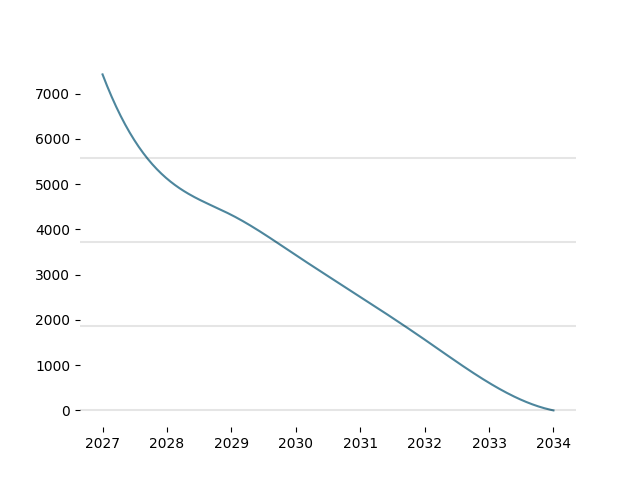
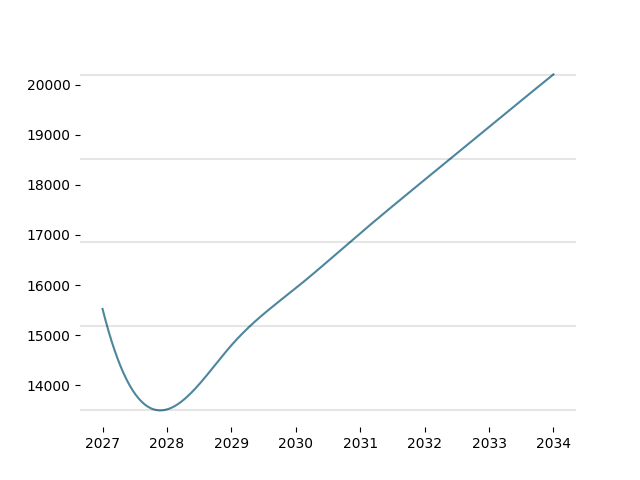
fixed

diff --git a/Car_Estimator/scripts/dashboard.js b/Car_Estimator/scripts/dashboard.js
@@ -48,7 +48,7 @@ window.onload = function() {
             Price = response["Price"];
             Photo = response["Photos"];
             Sells = response["Sell"]
-            console.log(Photo);
+            console.log(Price);
         }
     }
 

diff --git a/Car_Estimator/backend/analyze.py b/Car_Estimator/backend/analyze.py
@@ -9,7 +9,6 @@ import numpy as np
 from scipy.interpolate import make_interp_spline, BSpline
 import matplotlib.pyplot as plt
 
-
 app = Flask(__name__)
 CORS(app)
 plt.switch_backend('agg')
@@ -19,40 +18,42 @@ cars_dummies = pd.read_csv("car_dummies.csv")
 pics = pd.read_csv("pictures.csv")
 sells = pd.read_csv("sells.csv")
 
-def Graph(car_model: str, Year: int, HP: int, Body: str, Yearsell: int, Odometer: int, Color: str):
-  X=[]
-  Y=[]
-  period = 8
-  Make, Model = car_model.split(" | ")
-  Yearsell -= 4
-  for year in range(period):
-    Yearsell += 1
-    y_pred = get_car_info(car_model, Year, HP, Body, Yearsell, Odometer, Color)[0]
-    if y_pred > 0:
-      X.append(y_pred)
-    else:
-      X.append(0)
-    Y.append(Yearsell)
-    if year:
-      X[year] = X[year] * (1 - (18700 * year) ** (-0.17))
 
-  xnew = np.linspace(min(Y), max(Y), 300)
-  spl = make_interp_spline(Y, X, k=3)  # type: BSpline
-  power_smooth = spl(xnew)
-  plt.clf()
-  plt.box(False)
-  plt.plot(xnew, power_smooth, color="#4D869D")
-  ymin, ymax = plt.gca().get_ylim()
-  print(ymin, ymax)
-  for i in range(int(min(power_smooth)), int(max(power_smooth)), (int(max(power_smooth)) - int(min(power_smooth))) // 4):
-    plt.axhline(y=i, alpha=0.1, color="black")
-  plt.savefig('graph.png')
+def graph_build(car_model: str, Year: int, HP: int, Body: str, Yearsell: int, Odometer: int, Color: str):
+    X = []
+    Y = []
+    period = 8
+    Yearsell -= 4
+    for year in range(period):
+        Yearsell += 1
+        y_pred = get_car_info(car_model, Year, HP, Body, Yearsell, Odometer, Color)[0]
+        if y_pred > 0:
+            X.append(y_pred)
+        else:
+            X.append(0)
+        Y.append(Yearsell)
+        if year:
+            X[year] = X[year] * (1 - (18700 * year) ** (-0.17))
+
+    xnew = np.linspace(min(Y), max(Y), 300)
+    spl = make_interp_spline(Y, X, k=3)  # type: BSpline
+    power_smooth = spl(xnew)
+    plt.clf()
+    plt.box(False)
+    plt.plot(xnew, power_smooth, color="#4D869D")
+    ymin, ymax = plt.gca().get_ylim()
+    print(ymin, ymax)
+    for i in range(int(min(power_smooth)), int(max(power_smooth)),
+                   (int(max(power_smooth)) - int(min(power_smooth))) // 4):
+        plt.axhline(y=i, alpha=0.1, color="black")
+    plt.savefig('graph.png')
+
 
 def get_car_info(car_model: str, Year: int, HP: int, Body: str, Yearsell: int, Odometer: int, Color: str):
     Make, Model = car_model.split(" | ")
     dummy = {"Year": Year, "HP": HP, "Odometer": Odometer, "Yearsell": Yearsell}
     for col in list(cars_dummies.columns)[5:]:
-      dummy[col] = False
+        dummy[col] = False
 
     dummy["Make_" + Make] = True
     dummy["Model_" + Model] = True
@@ -72,16 +73,16 @@ def get_car_info(car_model: str, Year: int, HP: int, Body: str, Yearsell: int, O
     pictures = []
     sell = 0
     for car in range(len(sells)):
-      if car < len(pics) and pics.Car[car] == link:
-        pictures = pics.Pics[car].split()
-        print(pictures)
-      if sells.Car[car] == car_model:
-        sell = int(sells.Count[car])
-    return [int(np.round(y_pred[0],0)), pictures, sell]
+        if car < len(pics) and pics.Car[car] == link:
+            pictures = pics.Pics[car].split()
+            print(pictures)
+        if sells.Car[car] == car_model:
+            sell = int(sells.Count[car])
+
+    return [abs(int(np.round(y_pred[0], 0))), pictures, sell]
+
 
 @app.route('/car', methods=["GET", "POST"])
-
-
 def car():
     print("users endpoint reached...")
     if request.method == "GET":
@@ -89,7 +90,7 @@ def car():
     if request.method == "POST":
         received_data = request.get_json()
         print(f"received data: {received_data}")
-        
+
         message = received_data['data']
         car_info = get_car_info(*message)
         return_data = {
@@ -98,12 +99,9 @@ def car():
             "Photos": car_info[1],
             "Sell": car_info[2]
         }
-        Graph(*message)
+        graph_build(*message)
         return flask.Response(response=json.dumps(return_data), status=201)
-
 
 
 if __name__ == "__main__":
     app.run("localhost", 6969)
-    
-        
